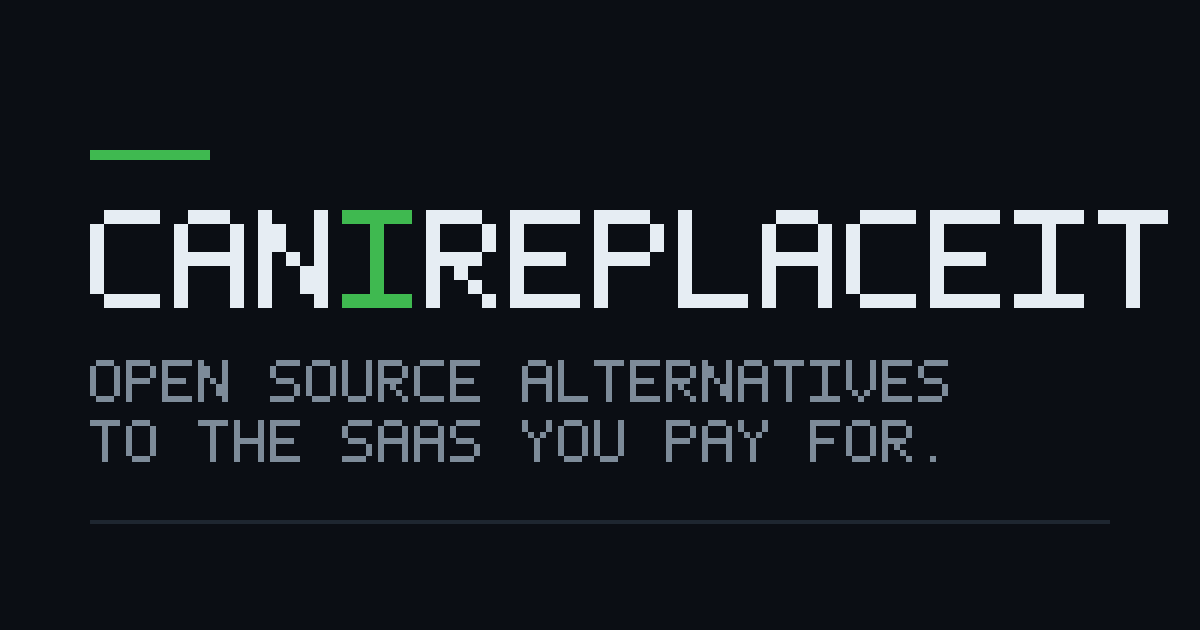
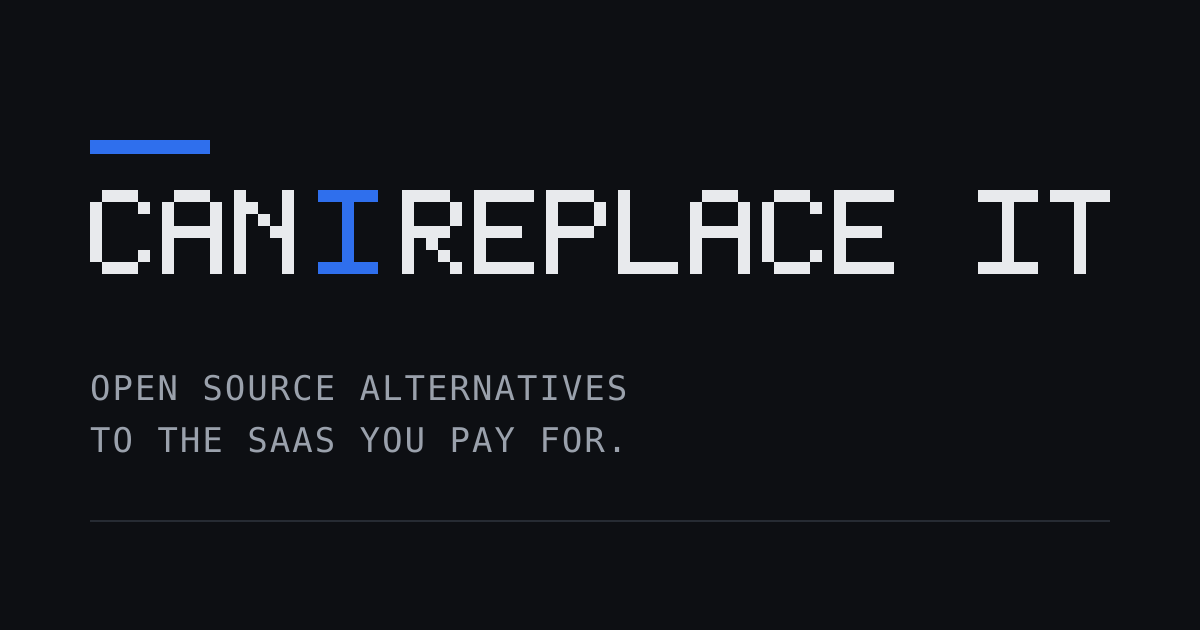
fix(og): the social card was green against a blue brand
One image is served for every URL on the site (OG_IMAGE in seo.ts), so getting
it wrong is wrong roughly four thousand times — and it was green while
`--brand` is #2f6fed. Nobody catches that by reading CSS.

Now generated from an SVG by `scripts/build-og.ts`, so the colour comes from the
same constant the site uses rather than being baked into pixels somebody has to
open an editor to change. Rendered with sharp, already a dependency. The
wordmark's own device survives: the "I" of "can I" is the pivot and stays brand
blue against ink.

Deliberately still ONE static card. The nineteen per-page designs specified in
/home/hades/canireplaceit-brand/og-designs.html are a bigger piece of work with
an open renderer decision attached; this is the stopgap that stops the card we
do ship contradicting the brand.

diff --git a/scripts/build-og.ts b/scripts/build-og.ts
@@ -1,0 +1,110 @@
+#!/usr/bin/env bun
+/**
+ * The site's social card, built rather than hand-maintained.
+ *
+ *   bun run scripts/build-og.ts
+ *
+ * One image is served for every URL on the site — see OG_IMAGE in seo.ts — so
+ * getting it wrong is wrong four thousand times. The committed PNG was green
+ * while the brand is blue (`--brand: #2f6fed`), which nobody would have caught
+ * by reading CSS.
+ *
+ * Generated from an SVG so the colour comes from the same constant the site
+ * uses instead of being baked into pixels somebody has to open an editor to
+ * change. Rendered with sharp, which is already a dependency.
+ *
+ * DELIBERATELY the single static card, not per-page images. Nineteen per-page
+ * designs are specified in /home/hades/canireplaceit-brand/og-designs.html and
+ * that is a bigger piece of work with a renderer decision attached; this is the
+ * stopgap that stops the one card we do ship contradicting the brand.
+ */
+
+import { writeFileSync } from "node:fs";
+import { join } from "node:path";
+import sharp from "sharp";
+
+/** Must track `--brand` in index.css. The whole point of generating this. */
+const BRAND = "#2f6fed";
+const INK = "#e8eaed";
+const MUTED = "#9aa1ac";
+const BG = "#0d0f13";
+
+const W = 1200;
+const H = 630;
+
+/**
+ * A blocky slab face drawn as rectangles, so the card needs no font file and
+ * renders identically wherever it is built. Each glyph is a 5x7 grid.
+ */
+const GLYPHS: Record<string, string[]> = {
+	C: ["01110", "10001", "10000", "10000", "10000", "10001", "01110"],
+	A: ["01110", "10001", "10001", "11111", "10001", "10001", "10001"],
+	N: ["10001", "11001", "10101", "10011", "10001", "10001", "10001"],
+	I: ["11111", "00100", "00100", "00100", "00100", "00100", "11111"],
+	R: ["11110", "10001", "10001", "11110", "10100", "10010", "10001"],
+	E: ["11111", "10000", "10000", "11110", "10000", "10000", "11111"],
+	P: ["11110", "10001", "10001", "11110", "10000", "10000", "10000"],
+	L: ["10000", "10000", "10000", "10000", "10000", "10000", "11111"],
+	T: ["11111", "00100", "00100", "00100", "00100", "00100", "00100"],
+	" ": ["00000", "00000", "00000", "00000", "00000", "00000", "00000"],
+};
+
+/** One word as `<rect>`s. Returns the markup and the width it consumed. */
+function word(
+	text: string,
+	x: number,
+	y: number,
+	cell: number,
+	fill: string,
+): { svg: string; width: number } {
+	const gap = cell;
+	let cursor = x;
+	const parts: string[] = [];
+	for (const ch of text.toUpperCase()) {
+		const rows = GLYPHS[ch];
+		if (!rows) {
+			cursor += cell * 5 + gap;
+			continue;
+		}
+		rows.forEach((row, r) => {
+			[...row].forEach((on, c) => {
+				if (on === "1") {
+					parts.push(
+						`<rect x="${cursor + c * cell}" y="${y + r * cell}" width="${cell}" height="${cell}" fill="${fill}"/>`,
+					);
+				}
+			});
+		});
+		cursor += cell * 5 + gap;
+	}
+	return { svg: parts.join(""), width: cursor - x - gap };
+}
+
+// 13 glyphs at 6 cells each, plus two inter-word gaps, inside a 1020px live
+// area: 82 cells across, so 12 is the largest that fits with the 90px margin.
+const cell = 12;
+// "CAN" and "REPLACE IT" in ink, the "I" between them in brand — the wordmark's
+// own device, where the I of "can I" is the pivot.
+const can = word("CAN", 90, 190, cell, INK);
+const i = word("I", 90 + can.width + cell * 2, 190, cell, BRAND);
+const rest = word(
+	"REPLACE IT",
+	90 + can.width + cell * 2 + i.width + cell * 2,
+	190,
+	cell,
+	INK,
+);
+
+const svg = `<svg xmlns="http://www.w3.org/2000/svg" width="${W}" height="${H}" viewBox="0 0 ${W} ${H}">
+  <rect width="${W}" height="${H}" fill="${BG}"/>
+  <rect x="90" y="140" width="120" height="14" fill="${BRAND}"/>
+  ${can.svg}${i.svg}${rest.svg}
+  <text x="90" y="400" font-family="DejaVu Sans Mono, monospace" font-size="34" letter-spacing="2" fill="${MUTED}">OPEN SOURCE ALTERNATIVES</text>
+  <text x="90" y="452" font-family="DejaVu Sans Mono, monospace" font-size="34" letter-spacing="2" fill="${MUTED}">TO THE SAAS YOU PAY FOR.</text>
+  <rect x="90" y="520" width="${W - 180}" height="2" fill="#262b33"/>
+</svg>`;
+
+const out = join(import.meta.dir, "..", "apps/frontend/public/og.png");
+const png = await sharp(Buffer.from(svg)).png().toBuffer();
+writeFileSync(out, png);
+console.log(`og.png ${png.length} bytes · brand ${BRAND} · ${W}x${H}`);
